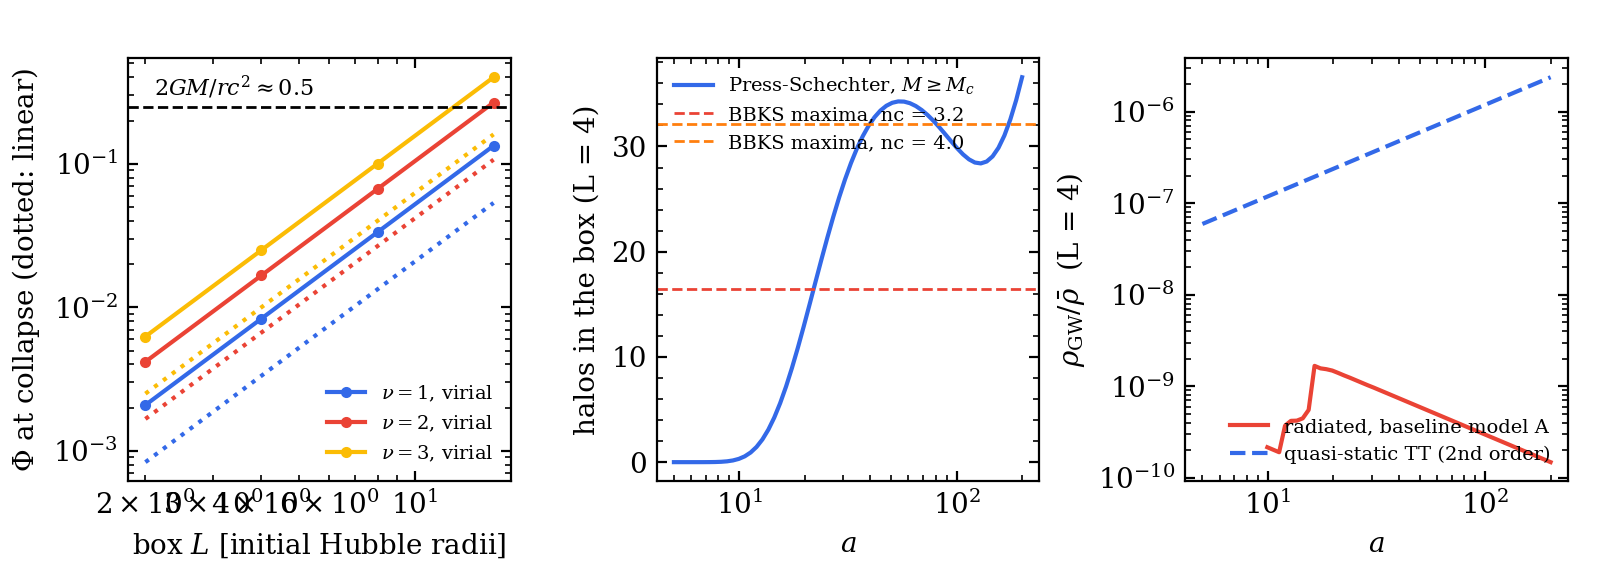
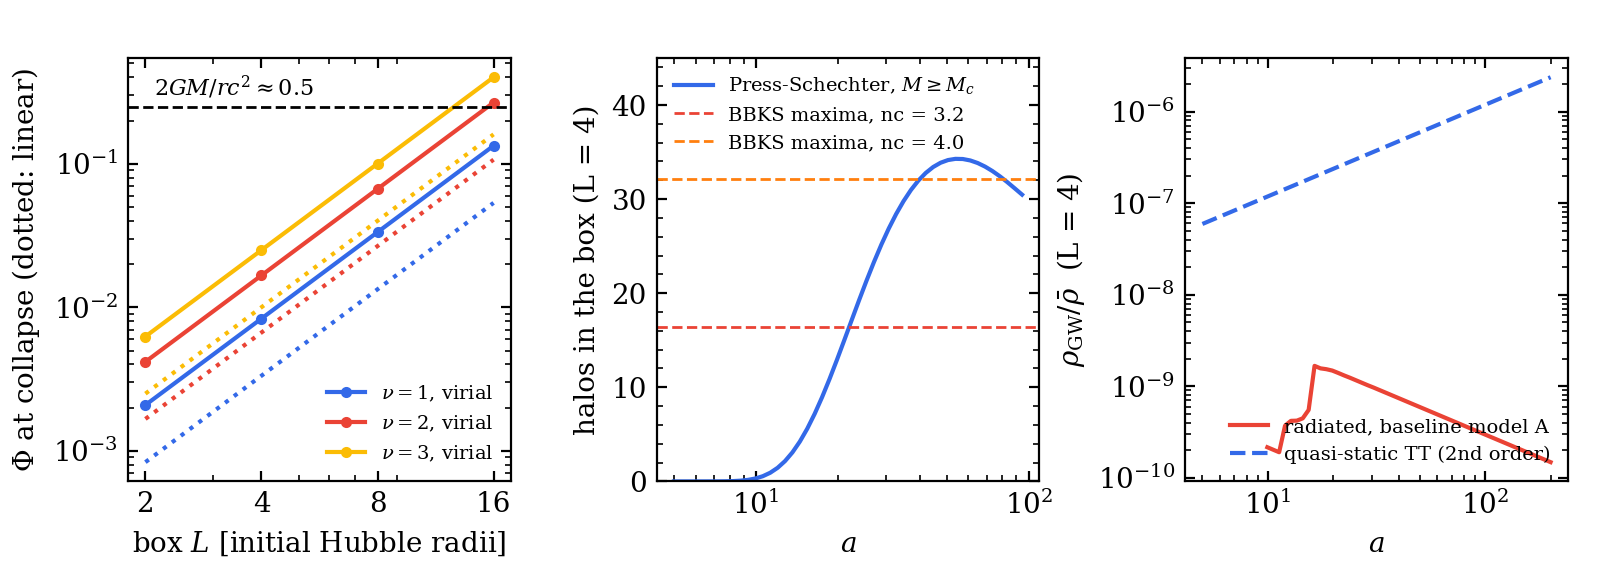
population: README (contents, rerun, runs, results, requests), figures redrawn (design axes, L = 8 GW limits; JSON outputs reproduced byte for byte by B-20261119-160611-3ef806d and -160632-e1a1d05), journal entry 7
Claude-Session: https://claude.ai/code/session_0199y7HEXiYfCzUzsqxwMTnx

diff --git a/tracks/B-emd-gw/population/README.md b/tracks/B-emd-gw/population/README.md
@@ -2,81 +2,105 @@
 
 Design of Track B's G3 science run, the stochastic GW background of a population of halos
 in a small periodic box, with a Newtonian-mode scouting run of the same box at 64 cells on
-processors. The deliverable is `DESIGN.md`; predictions and outcomes are in `JOURNAL.md`.
-Labels and units as in `DESIGN.md` (G = c = 1, H = 1 and a = 1 at the start, lengths in
-initial Hubble radii, conformal time t, a = (1 + t/2)^2).
+processors. The deliverable is `DESIGN.md`; predictions P1-P10, I1 and their outcomes are
+in `JOURNAL.md`. Units as in `DESIGN.md` (G = c = 1, H = 1 and a = 1 at the start,
+lengths in initial Hubble radii, conformal time t, a = (1 + t/2)^2).
 
 ## Contents
 
 | Path | What |
 |---|---|
-| `DESIGN.md` | the design: spectrum and scales from the references (locators), box size as the knob of the relativistic content, halo counts, signal estimates, cost of the full-GR run at 128 and 256 cells, what the code lacks, draft run list |
-| `JOURNAL.md` | predictions written before each run, outcomes after it |
-| `scripts/make_ic.py` | initial data: Gaussian random field with the early-matter-era spectrum P(k) ~ A_s k cut at k_c (cosmo/ic/random_field.py), Newtonian particles (make_field.newtonian_particles), optionally the relativistic data (make_field.build, `--gr`) or the dictionary without the constraint solve (`--gr-nosolve`, timing only) |
-| `scripts/run_newton.sh` | one case: make_ic.py, then the Newtonian mode of the release core-v0.3 processor build |
+| `DESIGN.md` | the design: spectrum and scales from the references (locators), the box (L = 8) and the amplitude scan, halo counts, signal estimates and the Newtonian measurements, cost of the full-GR run at 128 and 256 cells, run list, what the code lacks |
+| `JOURNAL.md` | predictions written before each run, outcomes after it, failed ones included |
+| `scripts/make_ic.py` | initial data: Gaussian random field with the early-matter-era spectrum P(k) ~ A_s k cut at k_c (cosmo/ic/random_field.py), Newtonian particles (make_field.newtonian_particles), the relativistic data (`--gr`, make_field.build) or the dictionary without constraint solve (`--gr-nosolve`, timing only) |
+| `scripts/run_newton.sh` | one Newtonian case: make_ic.py, then the release core-v0.3 processor build |
+| `scripts/run_gr_ic.sh` | relativistic initial data for several box sizes |
 | `scripts/design.py` | semi-analytic design (scales against L, BBKS and Press-Schechter counts, baseline GW energy per maximum, quasi-static TT floor, card cost) |
-| `scripts/analyze.py` | friends-of-friends halos, the GW energy of the box from the TT stress of the snapshots (radiated, switch-off and near-field measures), quadrupole formula per halo, figures |
+| `scripts/analyze.py` | friends-of-friends halos; GW energy of the box from the TT stress of the snapshots (radiated with junk and near field removed, switch-off measure of 2212.00425, near field); quadrupole formula per halo during formation; `--lscale` for the same run as a box lambda L |
+| `scripts/compare.py` | checks of P3-P7 and P9 from the analysis outputs |
 | `inputs/pop_newton.athinput` | Newtonian mode, periodic, expanding, L = 4, 64^3 |
-| `inputs/pop_gr.athinput` | full relativity (nrpic_cosmo, production configuration), for the timing runs of the design |
-| `results/design.json`, `figs/design_scales.png` | output of the design run |
-| `results/analysis*.json`, `figs/pop_*.png` | output of the analysis runs |
+| `inputs/pop_gr.athinput` | full relativity (nrpic_cosmo, production configuration), for the pending timing runs |
+| `results/` | design.json, analysis_{n32,fid,amp2,nc4,fidL8,fidL2}.json, compare.json |
+| `figs/` | design_scales, pop_halos_*, pop_density_*, pop_gw_*, pop_compare (PNG; PDF beside the scratch copies); all looked at |
 
 ## Rerun
 
-From the worktree root (`/data/haiyangw/nrpic/wt/B-emd-gw`), each command registered:
+From the worktree root (`/data/haiyangw/nrpic/wt/B-emd-gw`), each command registered (add
+`--background` for long runs and `harness/bin/nrpic-run finish <run_id>` afterwards):
 
 ```
-# design (one core, about a minute)
-harness/bin/nrpic-run submit --kind scouting --gate G3 --package tracks/B-emd-gw/population \
-    --cores 1 --purpose "..." -- python3 tracks/B-emd-gw/population/scripts/design.py
-# one Newtonian case (one core; about an hour at 64^3 on the loaded machine)
-harness/bin/nrpic-run submit --kind scouting --gate G3 --package tracks/B-emd-gw/population \
-    --cores 1 --background --purpose "..." -- bash tracks/B-emd-gw/population/scripts/run_newton.sh \
-    fid64 "--n 64 --L 4 --nc 3.2 --sigma1 0.0562 --seed 1 --ppc 1" \
+P=tracks/B-emd-gw/population
+harness/bin/nrpic-run submit --kind scouting --gate G3 --package $P --cores 1 --purpose "..." \
+    -- python3 $P/scripts/design.py
+harness/bin/nrpic-run submit --kind scouting --gate G3 --package $P --cores 1 --background --purpose "..." \
+    -- bash $P/scripts/run_newton.sh fid64 "--n 64 --L 4 --nc 3.2 --sigma1 0.0562 --seed 1 --ppc 1" \
     particles/dt=0.03125 particles/newton_cfl=0.25 particles/newton_mg_tol=1e-6
-harness/bin/nrpic-run finish <run_id>
-# analysis of finished cases (NAME:DIR pairs; --gw names the case for the GW analysis)
-harness/bin/nrpic-run submit ... -- python3 tracks/B-emd-gw/population/scripts/analyze.py \
-    --case fid:scratch-path/fid64 --case seed2:scratch-path/seed2 --gw fid --ng 64 \
-    --design tracks/B-emd-gw/population/results/design.json
+# 32 cells: add mesh/nx1=32 mesh/nx2=32 mesh/nx3=32 meshblock/nx1=16 meshblock/nx2=16 meshblock/nx3=16 particles/dt=0.0625
+harness/bin/nrpic-run submit ... -- python3 $P/scripts/analyze.py --case fid:<scratch>/fid64 \
+    --case seed2:<scratch>/seed2 --case n32:<scratch>/n32 --gw fid --ng 64 --nhalo-q 10 \
+    --design $P/results/design.json --tag _fid           # --lscale 2 --tag _fidL8 for L = 8
+harness/bin/nrpic-run submit ... -- python3 $P/scripts/compare.py
+harness/bin/nrpic-run submit ... -- bash $P/scripts/run_gr_ic.sh 64 "4 8 16" "--nc 3.2 --sigma1 0.0562 --seed 1 --ppc 1"
 ```
 
-32-cell cases need `mesh/nx1=32 mesh/nx2=32 mesh/nx3=32 meshblock/nx1=16 meshblock/nx2=16
-meshblock/nx3=16` and the step 1/16 on the command line.
-
-## Runs
+## Runs (manifests in `../runs/<run id>/`, outputs in `scratch/B-emd-gw/<run id>/`)
 
 | Run | What | Status |
 |---|---|---|
-| B-20261119-143348-728c0e5 | fiducial, step 1/64, solve to rounding | stopped after 32 cycles (6 s per cycle; JOURNAL entry 2) |
+| B-20261119-143348-728c0e5 | Newtonian fiducial, step 1/64, solve to rounding | stopped after 32 cycles (6 s per cycle; JOURNAL entry 2) |
+| B-20261119-143828-0ef9b5b | Newtonian fiducial (seed 1, 64^3, L = 4, nc = 3.2, sigma1 = 0.0562) to a = 100 | completed |
+| B-20261119-143832-85cbe25 | Newtonian, seed 2 | completed |
+| B-20261119-145324-525e4fd | Newtonian, 32 cells | completed |
+| B-20261119-145328-4b3663f | Newtonian, sigma1 doubled | stopped by me at a = 57 (a = 50 needed) |
+| B-20261119-145715-b18561e | Newtonian, nc = 4 | completed |
 | B-20261119-143836-644f0a9 | design | failed (rfft layout), fixed |
 | B-20261119-144134-092e73f | design | completed; `results/design.json` |
-| B-20261119-143828-0ef9b5b | Newtonian fiducial (seed 1, 64^3, nc = 3.2, sigma1 = 0.0562) to a = 100 | see JOURNAL |
-| B-20261119-143832-85cbe25 | Newtonian, seed 2 | see JOURNAL |
+| B-20261119-160611-3ef806d | design, rerun for the figure axes | see `JOURNAL.md` |
+| B-20261119-153509-02a921f | analysis A-n32 | completed (per-halo quadrupole of that version is an artefact, JOURNAL entry 3) |
+| B-20261119-153724-a6f1ab5 | analysis A-fid with the old per-halo code | stopped by me, superseded |
+| B-20261119-154315-c55b30f | analysis A-fid (fid, seed2, n32; GW of fid) | completed |
+| B-20261119-154447-99fa502 | analysis A-amp2 | completed |
+| B-20261119-155537-d49f8f1 | analysis A-nc4 | completed |
+| B-20261119-155621-68170ca | compare (P3-P7, P9) | completed |
+| B-20261119-155808-0942d44 | analysis A-fid-L8 (lscale 2) | completed (figure range cut; rerun B-20261119-160632-e1a1d05) |
+| B-20261119-155838-4f1954f | analysis A-fid-L2 (lscale 1/2) | completed |
+| B-20261119-154528-9306cb1 | relativistic initial data at 64^3, L = 4, 8, 16 | stopped by me in L = 16 (NaN); L = 4 converged, L = 8 not to tolerance |
 
-## Results
+## Results (details and labels in DESIGN.md and JOURNAL.md)
 
-See `DESIGN.md` sections 1 to 6 and the outcomes in `JOURNAL.md`.
+- Box with 16.5 expected maxima (BBKS) forms 25 halos by a = 30 and holds 18 to 28 to
+  a = 100 (64 cells, L = 4); seed 2 agrees; 32 cells find every halo above their mass limit.
+- The Newtonian evolution depends on sigma1 a only (P4) and the radiated GW energy of the
+  box follows sigma1^(7/2) at equal stage including the post-collapse emission (P9).
+- At L = 4 the radiated energy is 2 to 12 times the wave-1 baseline up to a = 30 and 200 to
+  800 times later; the quasi-static near field (1.2e-8 a in linear theory, as the first
+  source measured) dominates the TT energy until a ~ 50 to 100.
+- Recommended G3 configuration: L = 8, nc = 3.2, 256^3, one particle per cell, to a = 143,
+  amplitudes sigma1 = 0.014, 0.028, 0.056; 2.9 card-h per full-GR run (extrapolated rate),
+  about 14 card-h for the run list.
+- The initial-data tool converges at L = 4, not to tolerance at L = 8 with the top
+  amplitude within its 18 outer iterations, and fails (NaN) at L = 16.
 
 ## Requests
 
 To core (through the B-emd-gw lead's outbox):
 1. In-situ output of the low-wave-number Fourier modes of gamma_ij and K_ij (|k| <= k_max,
-   double precision, every n cycles) for the periodic cosmology runs: a 256^3 science run
-   cannot keep the dump cadence of the GW analysis with full mesh dumps (2.7 GB each in
-   double precision; `DESIGN.md` sections 7 and 9). Risk 7 of `../scope/SCOPE.md`.
-2. Initial data with the second-order TT part of the conformal metric (h_ij =
-   (20/3)[d_i Phi d_j Phi]^TT/k^2 for the matter era, `scripts/design.py`
-   `quasi_static_tt` is a reference implementation outside the source tree), or the
-   option to add a given TT tensor to the conformal metric of `nrpic_cosmo` id = file: the
-   junk of conformally flat data is as large as the radiated signal at L = 4 (`DESIGN.md`
-   5(d)).
-3. Release of the periodic refinement and the periodic horizon finder (core/cosmo-amr) and
-   the threaded processor build (core/build-openmp); the halo population needs them at
-   L >= 8 and for the Newtonian references at 128^3 and above.
+   double precision, every n cycles) for the periodic cosmology runs: a 256^3 run cannot keep
+   the cadence of the GW analysis with full mesh dumps (2.7 GB each; `DESIGN.md` 7, 9).
+2. Initial data for near-horizon, large-amplitude fields: `cosmo/ic` make_field.build fails
+   at L = 16 (|psi_N| ~ 0.35, NaN) and needs more than its 18 outer iterations at L = 8;
+   the in-code solver (core/id-solver, id-solver-2) for this case, or an `outer` option.
+3. Second-order TT part in the initial conformal metric (h_ij = (20/3)[d_i Phi d_j
+   Phi]^TT/k^2; `scripts/design.py` `quasi_static_tt` is a reference outside the source
+   tree), or the option to add a given TT tensor in `nrpic_cosmo` id = file (needed only
+   for a < 10, `DESIGN.md` 5(d)).
+4. Release of periodic refinement and the periodic horizon finder (core/cosmo-amr), the
+   threaded processor build (core/build-openmp) and several cards (core/mpi).
 
 To the B-emd-gw lead:
-4. Card timing of the full-GR box at 128^3 and 256^3 (one batch job, about 0.3 card-h,
-   section 10 of `DESIGN.md`): not submitted here because the owner already had two card
-   jobs queued.
-5. Pre-register the run list of `DESIGN.md` section 8 for G3, after G2.
+5. Card timing of the full-GR box at 128^3 and 256^3 (one batch job, about 0.3 card-h,
+   `inputs/pop_gr.athinput` with initial data from `scripts/make_ic.py --gr` at 128 cells
+   and `--gr-nosolve` at 256): not submitted here, the owner had two card jobs queued.
+6. Pre-register the run list of `DESIGN.md` section 8 for G3, after G2.
+7. An `--outer` option in `scripts/make_ic.py` passed to make_field.build, then the L = 8
+   data at sigma1 = 0.014, 0.028, 0.056 (not run here).

diff --git a/tracks/B-emd-gw/population/JOURNAL.md b/tracks/B-emd-gw/population/JOURNAL.md
@@ -216,3 +216,14 @@ DESIGN.md rewritten with these results: the recommendation moved from a scan in 
 scan in amplitude at L = 8 (section 3), because the Newtonian problem depends on sigma1 a
 only (P4) and the radiated box signal follows sigma^(7/2) (P9), while a smaller box loses
 part of the radiation (P10b, P10c) and a larger one fails at the initial data (I1).
+
+## Entry 7 (08:12 PST): reruns for the figures; state at the end of the package
+
+The design rerun B-20261119-160611-3ef806d and the L = 8 analysis rerun
+B-20261119-160632-e1a1d05 rewrote `results/design.json` and `results/analysis_fidL8.json`
+byte for byte (git shows no change); only the figures changed (box ticks; data-driven
+limits, the first L = 8 figure had cut the curves above 1e-5). Figures looked at.
+
+Not done (also in README.md and DESIGN.md section 10): card timing at 128^3 and 256^3
+(owner at its two card jobs), a full-GR run of this box, relativistic data at L = 8 with
+more outer iterations or lower amplitudes, Newtonian runs at 128 and 256 cells.
